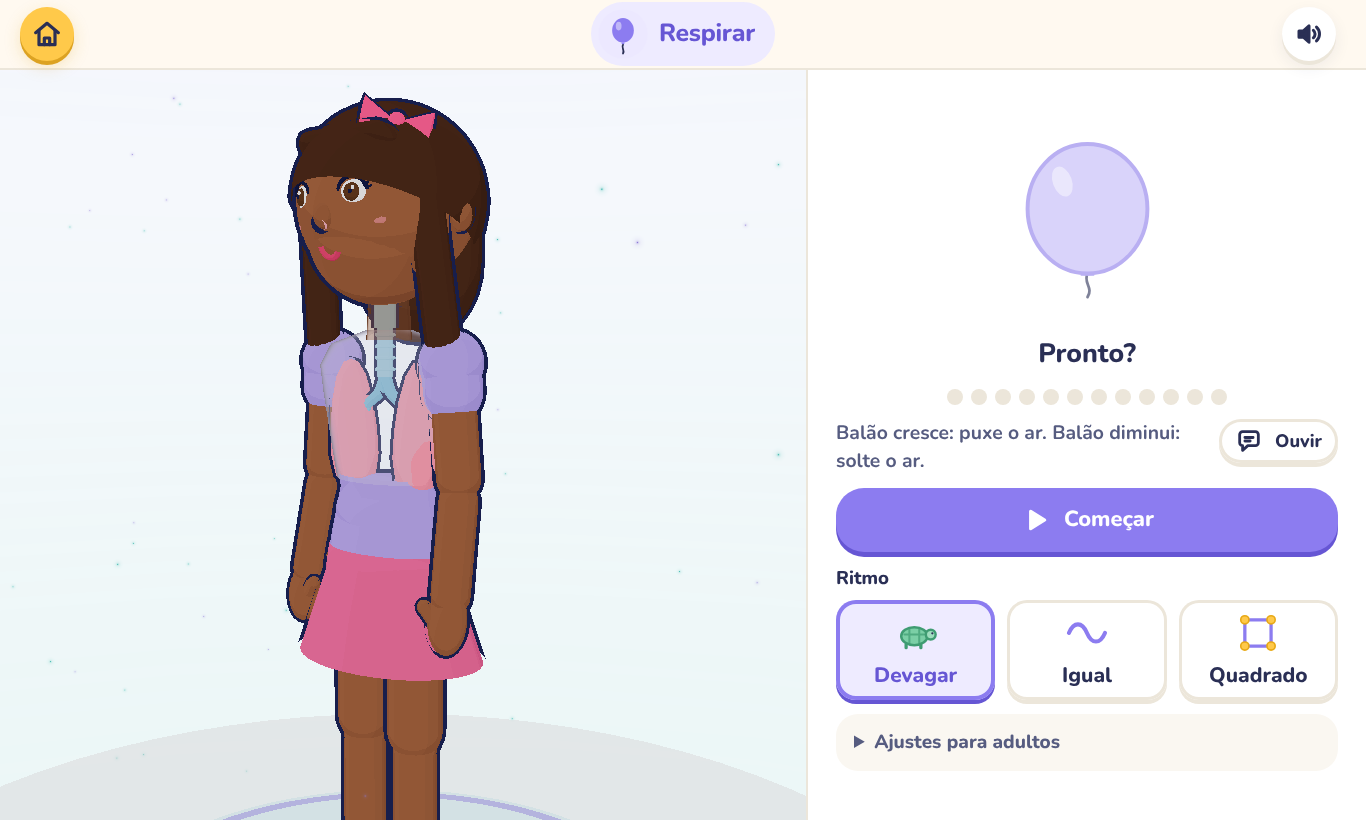
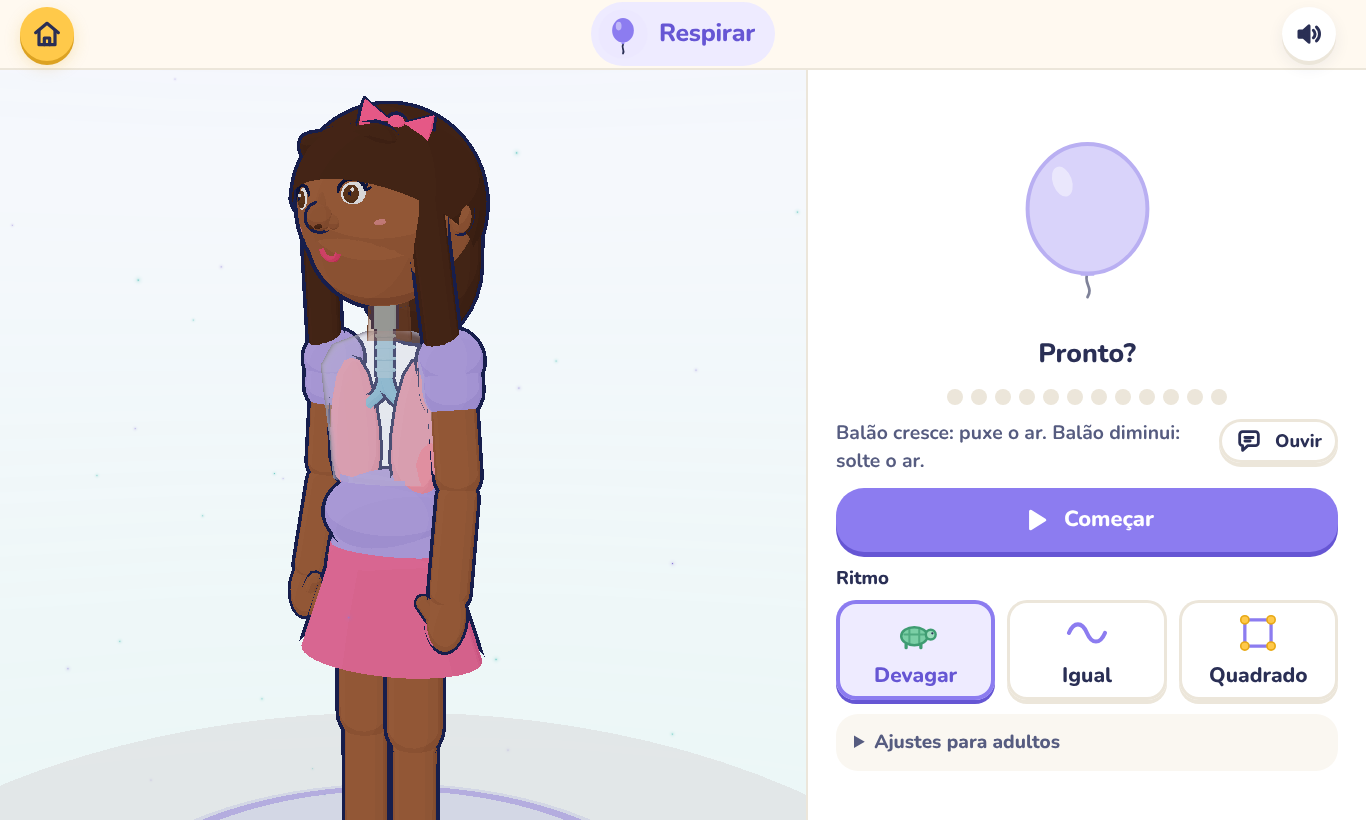
Nariz de verdade nos personagens
- Nariz de desenho: ponte, asas, ponta redonda com contorno e duas narinas
- Na cabeça de vidro (Aprender) o nariz fica sólido e o tubo do ar começa
  dentro dele, sem sair para fora do rosto
- No jogo, o buraco de entrada abre só uma narina e o resto do nariz continua
  à mostra no rosto gigante
- Prints do README atualizados

diff --git a/app/src/3d/Personagem.tsx b/app/src/3d/Personagem.tsx
@@ -25,6 +25,7 @@ import {
   LatheGeometry,
   Mesh,
   MeshToonMaterial,
+  Quaternion,
   SphereGeometry,
   TorusGeometry,
   TubeGeometry,
@@ -39,6 +40,7 @@ import { NOITE, ROUPA } from './cores'
 import { lerPulso } from './enchimento'
 import {
   CHAO_Y,
+  NARINAS,
   NARIZ,
   QUEIXO,
   RAIO_CABECA,
@@ -75,6 +77,7 @@ const COR_PARTE: Record<Parte, string> = {
 }
 
 const R = RAIO_CABECA
+const EIXO_Z = new Vector3(0, 0, 1)
 const escurecer = (cor: string, k: number) => new Color(cor).multiplyScalar(k)
 
 /* A espessura dos contornos (Outlines) é em pixels de tela. */
@@ -137,14 +140,19 @@ export function CabecaAmigo({ perfil, transparente = false, prepararPele, semCon
   const menina = perfil.corpo === 'feminino'
   const m = useMemo(() => {
     const pele = transparente ? vidro(tom, 0.2) : toon(tom)
-    const nariz = transparente ? vidro(tom, 0.35) : toon(escurecer(tom, 0.95))
+    // o nariz fica sólido até na cabeça de vidro, como os olhos e a boca: continua sendo um nariz
+    // no jogo (sem contorno) um tom mais escuro destaca o nariz no rosto gigante
+    const nariz = toon(escurecer(tom, prepararPele ? 0.8 : 0.93))
+    const narina = toon(escurecer(tom, 0.38))
     prepararPele?.(pele)
     prepararPele?.(nariz)
+    prepararPele?.(narina)
     const cabelo = toon(corCabelo, { side: DoubleSide })
     if (transparente) Object.assign(cabelo, { transparent: true, opacity: 0.22, depthWrite: false })
     return {
       pele,
       nariz,
+      narina,
       orelha: toon(escurecer(tom, 0.88)),
       cabelo,
       branco: toon('#ffffff'),
@@ -161,6 +169,8 @@ export function CabecaAmigo({ perfil, transparente = false, prepararPele, semCon
   const longo = perfil.cabelo === 'longo'
   const contorno = !transparente && !semContorno
   const ct = (px = 3.5) => contorno && <Outlines thickness={px} color={NOITE} />
+  // o nariz mantém o contorno até na cabeça de vidro
+  const ctNariz = (px: number) => !semContorno && <Outlines thickness={px} color={NOITE} />
 
   // posições do rosto (sobre a superfície)
   const yBoca = -0.5 * R
@@ -212,13 +222,36 @@ export function CabecaAmigo({ perfil, transparente = false, prepararPele, semCon
         )
       })}
 
-      {/* nariz pequeno */}
-      <mesh material={m.nariz} position={NARIZ.centro} scale={[0.85, 1, 0.9]}>
-        <sphereGeometry args={[NARIZ.raio, 20, 16]} />
+      {/* nariz de desenho: ponte, duas asas, a ponta redonda e as duas narinas embaixo.
+          Na cabeça de vidro ficam só a ponta e as narinas: a ponte e as asas, quase todas
+          dentro do rosto, apareceriam como pedaços soltos. */}
+      {!transparente && (
+        <>
+          <mesh material={m.nariz} position={[0, NARIZ.centro.y + 0.07, NARIZ.centro.z - 0.024]} rotation={[-0.42, 0, 0]}>
+            <capsuleGeometry args={[0.032, 0.085, 4, 12]} />
+          </mesh>
+          {([-1, 1] as const).map((s) => (
+            <mesh key={s} material={m.nariz} position={[s * 0.058, NARIZ.centro.y - 0.022, NARIZ.centro.z - 0.045]}>
+              <sphereGeometry args={[0.04, 20, 14]} />
+            </mesh>
+          ))}
+        </>
+      )}
+      <mesh material={m.nariz} position={NARIZ.centro} scale={NARIZ.escala}>
+        <sphereGeometry args={[NARIZ.raio, 28, 20]} />
+        {ctNariz(3)}
       </mesh>
-      <mesh material={m.nariz} position={[0, NARIZ.centro.y + 0.07, NARIZ.centro.z - 0.025]} rotation={[-0.35, 0, 0]}>
-        <capsuleGeometry args={[0.028, 0.08, 4, 10]} />
-      </mesh>
+      {NARINAS.map((n) => (
+        <mesh
+          key={n.lado}
+          material={m.narina}
+          position={n.centro}
+          quaternion={new Quaternion().setFromUnitVectors(EIXO_Z, n.direcao)}
+          scale={[1.2, 0.72, 0.4]}
+        >
+          <sphereGeometry args={[0.019, 16, 10]} />
+        </mesh>
+      ))}
 
       {/* boca: sorriso fino no menino; lábios rosados na menina */}
       <mesh material={m.boca} position={[0, yBoca, superficieRosto(0, yBoca) - 0.006]} rotation={[0.3, 0, Math.PI]}>
@@ -404,7 +437,7 @@ function pecasDosOrgaos(md: Medidas): Peca[] {
   const xp = ladoPulmao(md)
   const pecas: Peca[] = [
     // nariz por dentro e garganta (dentro da cabeça)
-    { parte: 'nariz', geometria: () => tubo(ar.slice(0, 4), (u) => 0.036 - u * 0.008) },
+    { parte: 'nariz', geometria: () => tubo(ar.slice(0, 4), (u) => 0.03 - u * 0.004) },
     { parte: 'faringe', geometria: () => tubo(ar.slice(3, 6), 0.042) },
     // laringe: um tubo mais largo, com a "tampinha" (epiglote) em cima
     { parte: 'laringe', geometria: () => tubo(ar.slice(5, 7), 0.058, 12) },

diff --git a/app/src/3d/forma.ts b/app/src/3d/forma.ts
@@ -29,16 +29,29 @@ export function superficieRosto(x: number, y: number): number {
   return Math.max(cabeca, queixo)
 }
 
-/** Nariz (no espaço da cabeça): uma bolinha pequena no meio do rosto. */
+/**
+ * Nariz de desenho (no espaço da cabeça): a ponta é uma bola que sai bem do
+ * rosto, com as duas "asas" do lado e as duas narinas embaixo.
+ */
 export const NARIZ = (() => {
   const y = -0.2 * RAIO_CABECA
-  const raio = 0.065
-  return { centro: new Vector3(0, y, superficieRosto(0, y) - 0.012), raio }
+  const raio = 0.07
+  // o centro fica um pouco à frente da pele: assim a bola inteira (e o contorno) aparece
+  return { centro: new Vector3(0, y, superficieRosto(0, y) + 0.022), raio, escala: new Vector3(1, 0.95, 0.85) }
 })()
 
-/** Narina: embaixo do nariz, "olhando" para baixo e para a frente. */
-export const NARINA = NARIZ.centro.clone().add(new Vector3(0, -0.045, 0.035))
-export const SAIDA_NARINA = new Vector3(0, -0.6, 0.8).normalize()
+/** As duas narinas, na parte de baixo da ponta do nariz (lado -1 e +1). */
+export const NARINAS = ([-1, 1] as const).map((lado) => {
+  const direcao = new Vector3(lado * 0.36, -0.74, 0.56).normalize()
+  return { lado, direcao, centro: direcao.clone().multiply(NARIZ.escala).multiplyScalar(NARIZ.raio).add(NARIZ.centro) }
+})
+
+/** Narina por onde o ar entra no jogo (a do lado +x) e a direção de quem chega até ela. */
+export const NARINA = NARINAS[1].centro
+export const SAIDA_NARINA = new Vector3(0.16, -0.55, 0.82).normalize()
+
+/** Onde o caminho do ar começa no desenho: dentro da ponta do nariz, entre as narinas. */
+export const ENTRADA_AR = NARIZ.centro.clone().add(new Vector3(0, -0.028, 0))
 
 /* ------------------------------------------------------------ proporções */
 
@@ -106,9 +119,8 @@ export function pontosDoAr(m: Medidas, s: 1 | -1): Vector3[] {
   const c = m.cabeca
   const R = RAIO_CABECA
   const laringeTopo = m.troncoTopo + 0.14
-  const narina = c.clone().add(NARINA)
   return [
-    narina, // 0 narina
+    c.clone().add(ENTRADA_AR), // 0 entrada (dentro da ponta do nariz)
     new Vector3(0, c.y - 0.14 * R, 0.72 * R), // 1 dentro do nariz
     new Vector3(0, c.y - 0.06 * R, 0.4 * R), // 2 fundo do nariz
     new Vector3(0, c.y - 0.24 * R, 0.08), // 3 nasofaringe

diff --git a/app/src/jogo/CenaJogo.tsx b/app/src/jogo/CenaJogo.tsx
@@ -22,7 +22,7 @@ import { anguloEpiglote, posVirus, type Obstaculo } from './obstaculos'
 import { CAMINHOS, paraMundo, quadroEm, raioEm, S, S_BIFURCACAO, type Caminho, type Lado } from './percurso'
 import type { Simulacao } from './simulacao'
 import { texturaParede } from './texturas'
-import { NARINA, NARIZ, SAIDA_NARINA } from '../3d/forma'
+import { NARINA, SAIDA_NARINA } from '../3d/forma'
 import { toon } from '../3d/materiais'
 import { PERFIL_PADRAO, TONS } from '../3d/perfil'
 import { ROUPA } from '../3d/cores'
@@ -111,8 +111,13 @@ function Tunel({ c, s0, s1, outro }: { c: Caminho; s0: number; s1: number; outro
  * vista de fora. Ela é girada e posicionada para a narina ficar exatamente na
  * entrada do túnel; um shader abre o buraco da narina.
  */
-/** Raio do buraco da narina no espaço da cabeça (menor que o nariz) */
-const RAIO_FURO = NARIZ.raio * 0.62
+/**
+ * Raio do buraco no espaço da cabeça: abre só a narina (embaixo da ponta), e o
+ * resto do nariz continua à mostra. Ele também define o tamanho da cabeça
+ * gigante, que precisa ficar do tamanho certo para a garganta passar por dentro
+ * do pescoço.
+ */
+const RAIO_FURO = 0.03
 
 function abrirNarina(m: MeshStandardMaterial | MeshToonMaterial, furo: { a: Vector3; b: Vector3; r: number }) {
   m.onBeforeCompile = (sh) => {
